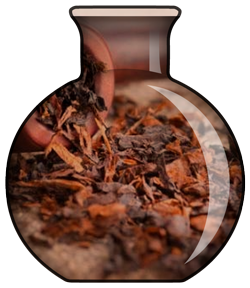
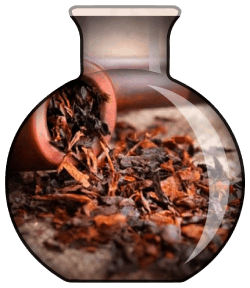
add 3 flavors

diff --git a/nectars.html b/nectars.html
@@ -126,6 +126,49 @@
 <div id="nectarCollection" class="fxDisplay fxStretch fxDirCol">
   <div id="contentContainer" class="fxDisplay fxWrap fxJustifyCenter">
     <div
+      class="nectar new"
+      props="fruity sweet candy minty"
+      onclick="buyNectar(this);"
+    >
+      <figure>
+        <img class="nectarFlask" src="./nectars/bubblebricks.png" />
+      </figure>
+      <span class="nectarName">Bubble Bricks</span>
+      <span class="nectarInfo"
+        >bricks! ...from our blue raspberry bubblegum construction site!
+      </span>
+    </div>
+
+    <div
+      class="nectar new"
+      props="fruity sweet candy creamy"
+      onclick="buyNectar(this);"
+    >
+      <figure>
+        <img class="nectarFlask" src="./nectars/congobongo.png" />
+      </figure>
+      <span class="nectarName">Congo Bongo</span>
+      <span class="nectarInfo"
+        >puree of ripe tropical mangos, reaped from the magical forest of
+        Congo!</span
+      >
+    </div>
+
+    <div
+      class="nectar new"
+      props="sweet pastry creamy"
+      onclick="buyNectar(this);"
+    >
+      <figure>
+        <img class="nectarFlask" src="./nectars/snowwhite.png" />
+      </figure>
+      <span class="nectarName">Snow White</span>
+      <span class="nectarInfo"
+        >out of 7 moist and fluffy vanilla cakes, this one is the sweetest!
+      </span>
+    </div>
+
+    <div
       class="nectar"
       props="fruity beverage candy"
       onclick="buyNectar(this);"
@@ -134,7 +177,7 @@
         <img class="nectarFlask" src="./nectars/nectarmonster.png" />
       </figure>
       <span class="nectarName">Nectar Monster</span>
-      <span class="nectarInfo">Energy drink!? Well close... Energy Vape!</span>
+      <span class="nectarInfo">energy drink!? well close... energy vape!</span>
     </div>
 
     <div class="nectar" props="fruity sweet minty" onclick="buyNectar(this);">

diff --git a/home.html b/home.html
@@ -93,6 +93,10 @@
 <div class="elementRotator fxFixed">
   <div
     class="current"
+    style="background-image: url(stylesheets/slideshows/newnectars3.jpg)"
+    onclick="preloadContent('nectars')"
+  ></div>
+  <div
     style="background-image: url(stylesheets/slideshows/dragmax.jpg)"
     onclick="preloadContent('starterkits')"
   ></div>
@@ -110,15 +114,6 @@
   <div
     style="background-image: url(stylesheets/slideshows/um4.jpg)"
     onclick="preloadContent('chargers')"
-  ></div>
-  <div
-    style="background-image: url(stylesheets/slideshows/nectarmonster.jpg)"
-    onclick="preloadContent('nectars')"
-  ></div>
-
-  <div
-    style="background-image: url(stylesheets/slideshows/newnectars.jpg)"
-    onclick="preloadContent('nectars')"
   ></div>
 
   <nav></nav>
@@ -165,7 +160,7 @@
 
 <div id="contentContainer">
   <div class="cat-parent fxDisplay fxWrap fxJustifyCenter">
-    <a class="cat-child" onclick="preloadContent('nectars')"
+    <a class="cat-child new" onclick="preloadContent('nectars')"
       ><img src="stylesheets/cats/nectar.svg" />Nectar</a
     >
 

diff --git a/index.html b/index.html
@@ -57,7 +57,7 @@
           case "mylab":
             return pagename + ".html?v=3.3";
           case "nectars":
-            return pagename + ".html?v=3.3";
+            return pagename + ".html?v=3.4";
           case "nectarorder":
             return pagename + ".html?v=3.3";
           case "hardwareorder":
@@ -65,7 +65,7 @@
           case "seducehydra":
             return pagename + ".html?v=3.3";
           case "home":
-            return pagename + ".html?v=3.3";
+            return pagename + ".html?v=3.4";
           case "starterkits":
             return pagename + ".html?v=3.3";
           case "chargers":
